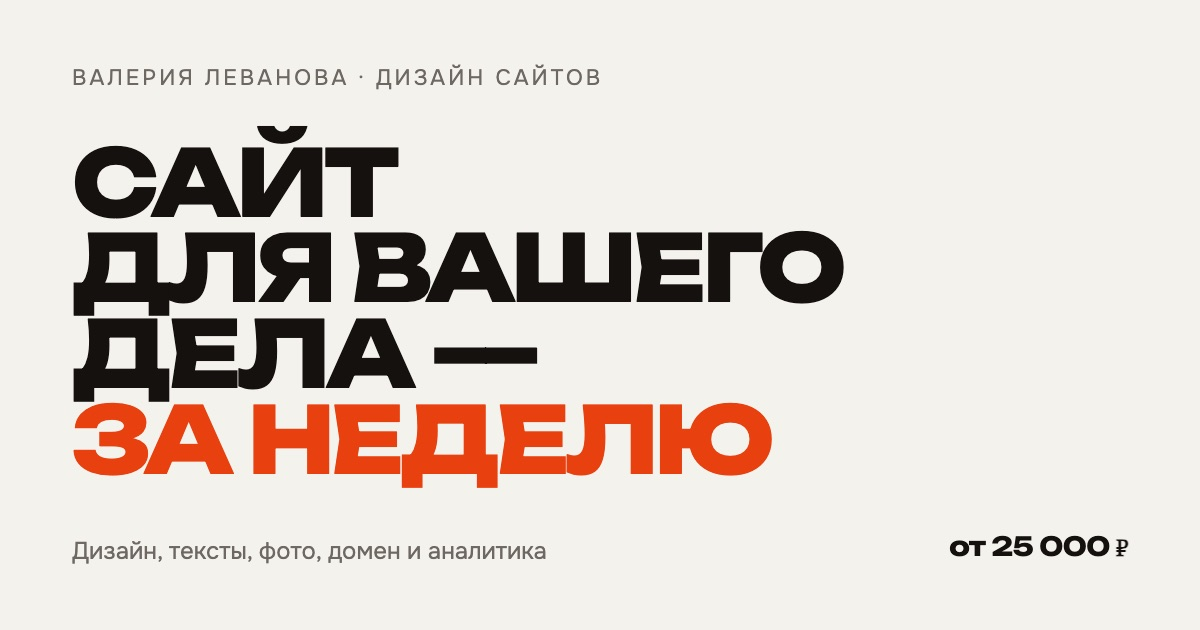
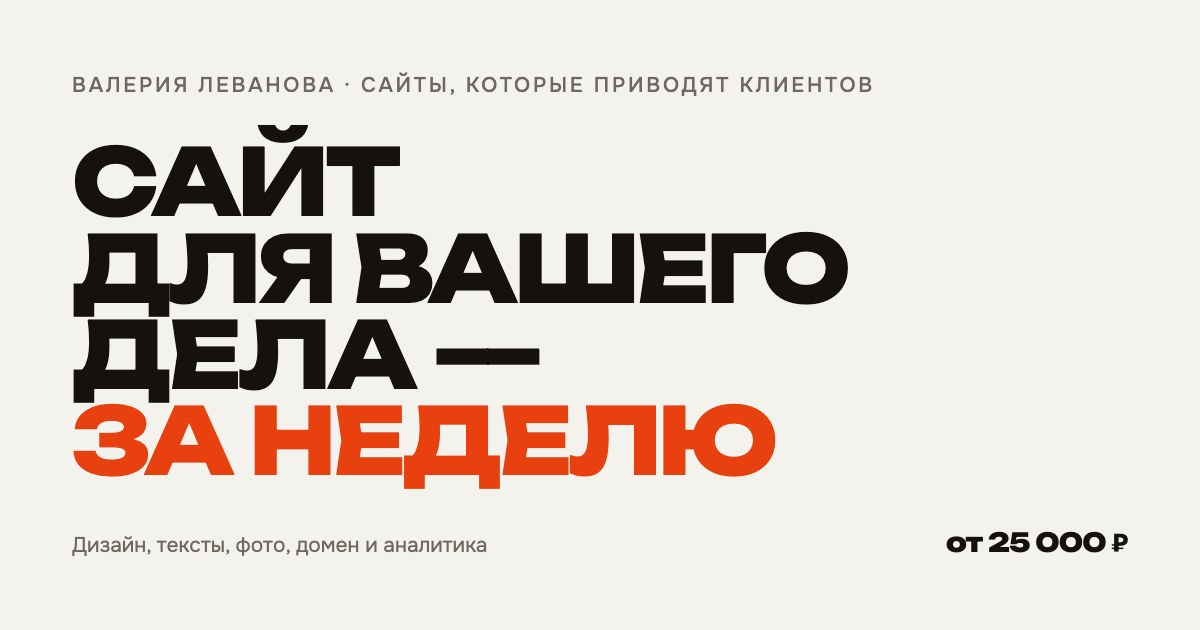
Данные самозанятой в политике, перенос длинных заголовков, новая картинка превью
В политике конфиденциальности стояла заготовка вместо ФИО и статуса —
подставлены те же данные, что в оферте. Заголовок «Политика
конфиденциальности» вылезал за экран телефона одним словом. Картинка
превью для мессенджеров перерисована под подпись «сайты, которые
приводят клиентов».

diff --git a/privacy.html b/privacy.html
@@ -8,7 +8,7 @@
 <meta name="robots" content="noindex">
 <link rel="icon" href="assets/favicon.svg" type="image/svg+xml">
 <link rel="stylesheet" href="assets/fonts/fonts.css">
-<link rel="stylesheet" href="assets/style.css?v=16">
+<link rel="stylesheet" href="assets/style.css?v=17">
 <script src="assets/metrika.js?v=1" defer></script>
 </head>
 <body>
@@ -24,7 +24,8 @@
 
   <div class="doc">
     <h2>Кто обрабатывает данные</h2>
-    <p>Леванова Валерия <!-- ЗАПОЛНИТЬ: полное ФИО и статус, самозанятая или ИП с номером -->, далее «я».
+    <p>Леванова Валерия Алексеевна, применяющая специальный налоговый режим
+    «Налог на профессиональный доход» (самозанятая), ИНН 632133611329, далее «я».
     Связь: <a href="mailto:valerialevanova01@gmail.com">valerialevanova01@gmail.com</a>.</p>
 
     <h2>Какие данные собираются на сайте</h2>
@@ -57,7 +58,7 @@
     браузера, на работу сайта это не повлияет.</p>
 
     <h2>Переписка</h2>
-    <p>Если вы напишете мне в WhatsApp или Telegram, переписка останется в этом мессенджере.
+    <p>Если вы напишете мне в Telegram или ВКонтакте, переписка останется в этом мессенджере.
     Я использую её только чтобы ответить на вопрос и обсудить работу, никому не передаю
     и не рассылаю по ней рекламу. Удалить переписку можно в любой момент, просто напишите об этом.</p>
 
@@ -83,7 +84,7 @@
 
 
 
-<script src="assets/app.js?v=16" defer></script>
+<script src="assets/app.js?v=17" defer></script>
 
 
 <div class="cookie" id="cookie" hidden>

diff --git a/index.html b/index.html
@@ -10,7 +10,7 @@
 <meta property="og:type" content="website">
 <meta property="og:title" content="Сайт для вашего дела за неделю">
 <meta property="og:description" content="Сайт под ключ: тексты, фотографии, оформление. Одностраничник от 25 000 ₽, многостраничный от 65 000 ₽, интернет-магазин от 90 000 ₽.">
-<meta property="og:image" content="https://pixellord.ru/assets/og.jpg">
+<meta property="og:image" content="https://pixellord.ru/assets/og.jpg?v=2">
 <meta property="og:image:width" content="1200">
 <meta property="og:image:height" content="630">
 <meta property="og:url" content="https://pixellord.ru/">
@@ -22,7 +22,7 @@
 <link rel="preload" href="assets/fonts/unbounded-800-cyrillic.woff2" as="font" type="font/woff2" crossorigin>
 <link rel="preload" href="assets/fonts/onest-400-cyrillic.woff2" as="font" type="font/woff2" crossorigin>
 <link rel="stylesheet" href="assets/fonts/fonts.css">
-<link rel="stylesheet" href="assets/style.css?v=16">
+<link rel="stylesheet" href="assets/style.css?v=17">
 
 <script type="application/ld+json">
 {
@@ -428,7 +428,7 @@
   <img id="shotImg" src="" alt="Отзыв заказчика в переписке">
 </div>
 
-<script src="assets/app.js?v=16" defer></script>
+<script src="assets/app.js?v=17" defer></script>
 
 <div class="cookie" id="cookie" hidden>
   <p>Сайт использует cookie и Яндекс.Метрику, чтобы понимать, какие разделы читают. Подробнее в <a href="privacy.html">политике конфиденциальности</a>.</p>

diff --git a/oferta.html b/oferta.html
@@ -8,7 +8,7 @@
 <meta name="robots" content="noindex">
 <link rel="icon" href="assets/favicon.svg" type="image/svg+xml">
 <link rel="stylesheet" href="assets/fonts/fonts.css">
-<link rel="stylesheet" href="assets/style.css?v=16">
+<link rel="stylesheet" href="assets/style.css?v=17">
 <script src="assets/metrika.js?v=1" defer></script>
 </head>
 <body>
@@ -159,7 +159,7 @@
   <p><a href="index.html">На главную</a></p>
 </footer>
 
-<script src="assets/app.js?v=16" defer></script>
+<script src="assets/app.js?v=17" defer></script>
 
 
 <div class="cookie" id="cookie" hidden>

diff --git a/assets/style.css b/assets/style.css
@@ -44,6 +44,9 @@ a{color:inherit}
   line-height:1;
   letter-spacing:-.035em;
   margin:0 0 14px;
+  /* «конфиденциальности» в одно слово шире экрана телефона */
+  overflow-wrap:break-word;
+  hyphens:auto;
 }
 .h2--big{font-size:clamp(2rem,10vw,3.4rem)}
 .h2 em{font-style:normal;color:var(--flame)}
